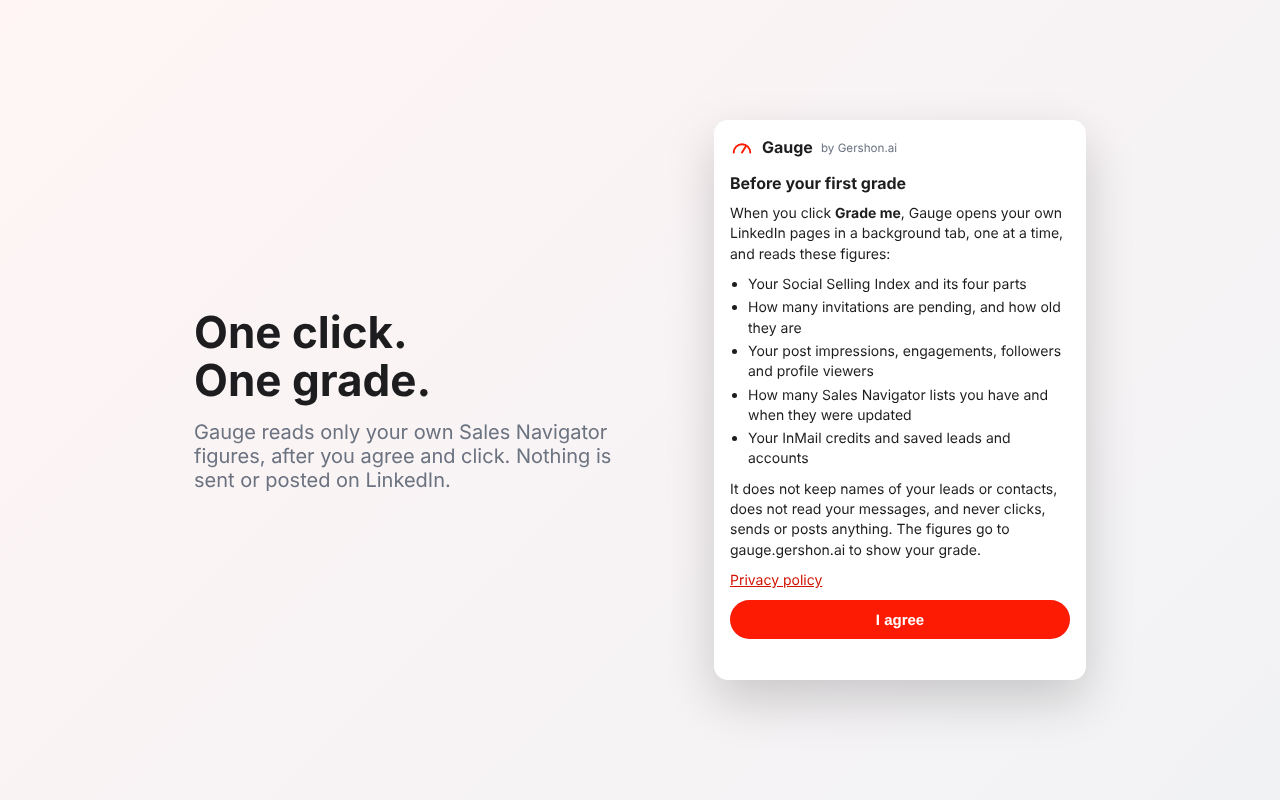
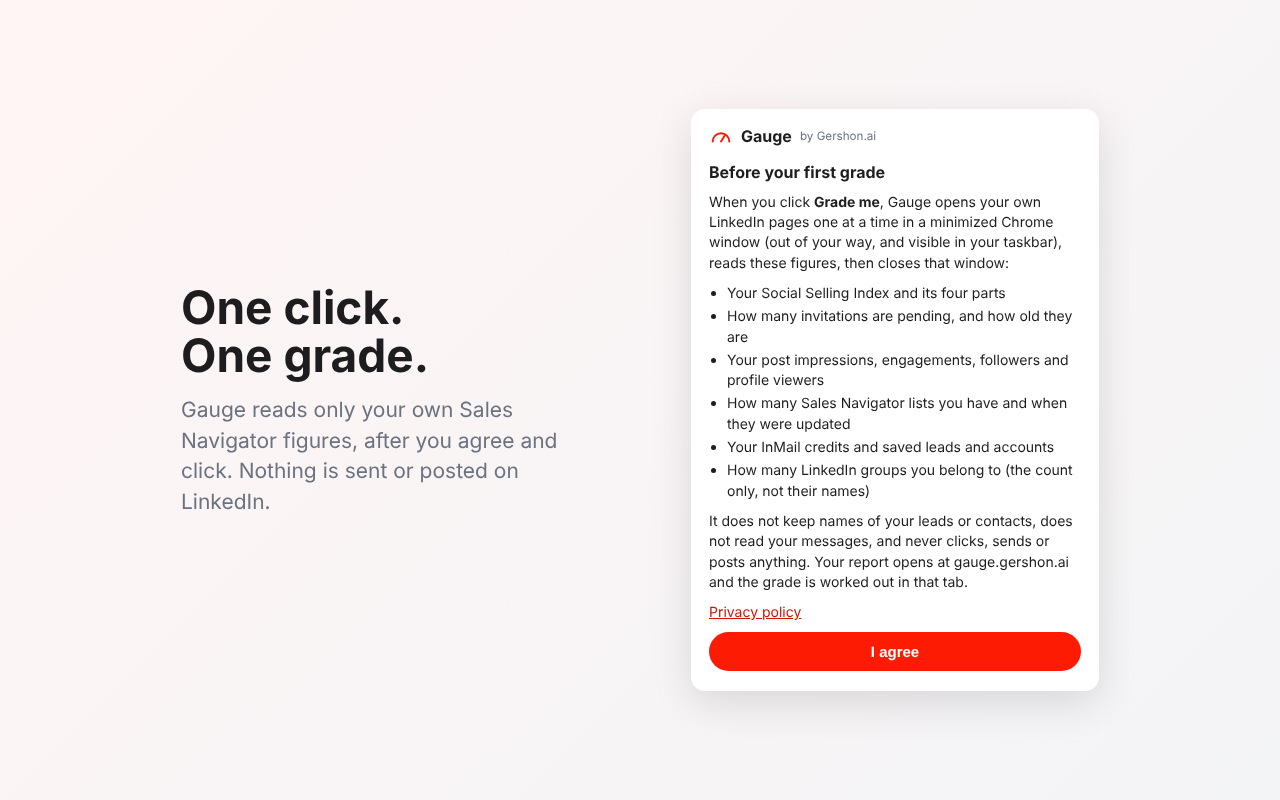
Store pack: pre-submission audit, accurate description, consent screenshot matches v0.3.0
Claude-Session: https://claude.ai/code/session_016mwGiwvGxQodAgKtYXViZn

Changed region(s): [[0.5312, 0.1562, 0.875, 0.875], [0.125, 0.3438, 0.4688, 0.6562]]

diff --git a/store/SUBMISSION.md b/store/SUBMISSION.md
@@ -2,13 +2,23 @@
 
 Updated: 2026-11-15 (v0.3.0 package built with `node tools/build-extension.mjs`). Paste-ready answers for the Developer Dashboard. The extension must be built to match this file and `site/privacy.html` exactly — if the code changes, change both.
 
+## Pre-submission audit (2026-11-16)
+- ✅ Manifest V3, no remote code, permissions limited to `scripting` + `storage` + www.linkedin.com, justifications below
+- ✅ Consent screen before any reading; privacy policy with Limited Use statement; data-use disclosures below
+- ✅ Store assets: 128 icon, 2 screenshots 1280×800 (consent screenshot redone 2026-11-16 to match v0.3.0 text), promo tile 440×280
+- ❌ Live site must run commit 78de72d+ before submitting: the reviewer reads gauge.gershon.ai/privacy, which must say "minimized window" like the v0.3.0 consent screen
+- ❌ v0.3.0 never run end to end as an installed extension — a "does not work" rejection is the most common first-pass failure
+- ❌ Reviewer access: reviewers have no Sales Navigator account; add a short screen-recording link of a real run in the test-instructions field
+- ❌ Developer account: USD 5 fee (Olivier pays himself), 2-step, trader declaration with business postal address + phone
+- ⚠ Name contains LinkedIn's trademark "Sales Navigator" (nominative use, disclaimer in description); fallback name if flagged: "Gauge by Gershon.ai"
+
 ## Store listing
 - Name: Gauge — Sales Navigator grader
 - Summary (132 max): See how much of your LinkedIn Sales Navigator capacity you use. One click, one grade, three moves to improve. Read-only.
 - Category: Workflow & Planning · Language: English
 - Description:
   Gauge grades how efficiently you use LinkedIn Sales Navigator. Click the Gauge icon, then "Grade me", and see the share of your Sales Navigator capacity you really use, lever by lever, with the three moves that add the most.
-  Gauge reads only figures about your own activity (Social Selling Index, pending invitations, content results, number of groups joined, saved lists and searches). It never reads your leads, contacts or messages, never sends or posts anything, and does nothing until you click.
+  Gauge reads only figures about your own activity (Social Selling Index, pending invitations, post results, number of groups joined, Sales Navigator lists, InMail credits, and saved leads and accounts). It never reads your leads, contacts or messages, never sends or posts anything, and does nothing until you click.
   Gauge is an independent product by Gershon Consulting LLC and is not affiliated with or endorsed by LinkedIn Corporation.
 - Homepage: https://gauge.gershon.ai · Support: https://gauge.gershon.ai/support · Privacy policy: https://gauge.gershon.ai/privacy
 - Mature content: No · Ads: No · Payments: None
